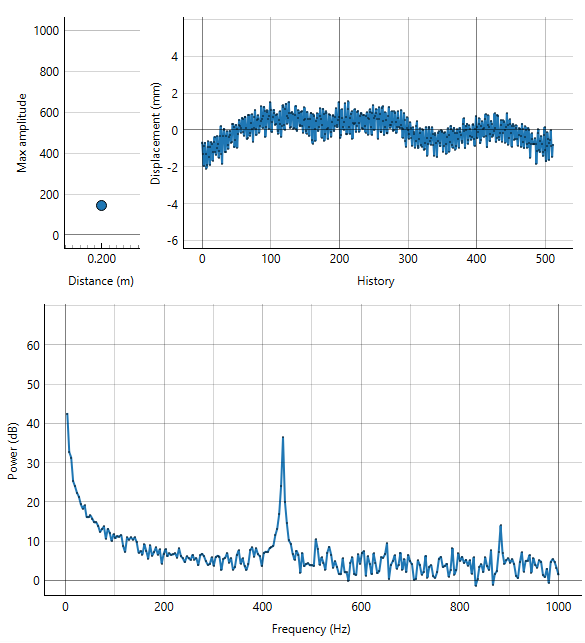
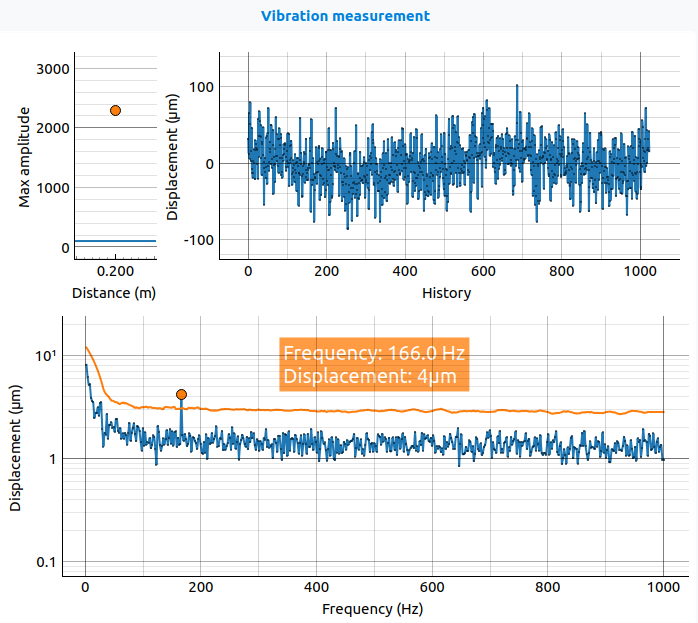
A121: Vibration: Update documentation

Changed region(s): [[0.0, 0.5185, 0.9846, 1.0], [0.0308, 0.0, 0.9846, 0.488], [0.0615, 0.0305, 0.1231, 0.061]]

diff --git a/src/acconeer/exptool/a121/algo/vibration/_processor.py b/src/acconeer/exptool/a121/algo/vibration/_processor.py
@@ -43,13 +43,15 @@ class ReportedDisplacement(AlgoParamEnum):
 @attrs.mutable(kw_only=True)
 class ProcessorConfig(AlgoProcessorConfigBase):
     time_series_length: int = attrs.field(default=1024)
-    """Length of time series."""
+    """Length of time series.
+    This value will be overridden by the number of sweeps per frame if continuous sweep mode is not enabled."""
 
     lp_coeff: float = attrs.field(default=0.95)
-    """Specify filter coefficient of exponential filter."""
+    """Specify filter coefficient of the exponential filter for the FFT.
+    A higher value means more filtering, i.e., slower response to changes."""
 
     threshold_margin: float = attrs.field(default=10.0)
-    """Specify threshold margin (micro meter)."""
+    """Specify threshold margin (micrometer)."""
 
     amplitude_threshold: float = attrs.field(default=100.0)
     """Specify minimum amplitude for calculating vibration."""
@@ -175,7 +177,7 @@ class ProcessorExtraResult:
     lp_displacements_threshold: Optional[npt.NDArray[np.float_]] = attrs.field(
         default=None, eq=attrs_optional_ndarray_isclose
     )
-    """Threshold used for detecting significant frequencies."""
+    """CFAR threshold used for detecting significant frequencies in the FFT."""
 
 
 @attrs.frozen(kw_only=True)
@@ -189,19 +191,19 @@ class ProcessorResult:
     lp_displacements: Optional[npt.NDArray[np.float_]] = attrs.field(
         default=None, eq=attrs_optional_ndarray_isclose
     )
-    """Array of estimated displacement (um) per frequency."""
+    """Array of estimated displacement (μm) per frequency."""
 
     lp_displacements_freqs: npt.NDArray[np.float_] = attrs.field(eq=attrs_ndarray_isclose)
     """Array of frequencies where displacement is estimated (Hz)."""
 
     max_displacement: Optional[float] = attrs.field(default=None)
-    """Largest detected displacement (um)."""
+    """Largest detected displacement (μm)."""
 
     max_displacement_freq: Optional[float] = attrs.field(default=None)
     """Frequency of largest detected displacement (Hz)."""
 
     time_series_std: Optional[float] = attrs.field(default=None)
-    """Time series std(standard deviation)."""
+    """Time series standard deviation."""
 
     extra_result: ProcessorExtraResult
     """Extra result, used for plotting only."""

diff --git a/src/acconeer/exptool/a121/algo/vibration/_example_app.py b/src/acconeer/exptool/a121/algo/vibration/_example_app.py
@@ -47,13 +47,15 @@ class ExampleAppConfig(AlgoConfigBase):
     """Measured point."""
 
     time_series_length: int = attrs.field(default=1024)
-    """Number of sweeps in the time series."""
+    """Length of time series.
+    This value will be overridden by the number of sweeps per frame if continuous sweep mode is not enabled."""
 
     lp_coeff: float = attrs.field(default=0.95)
-    """Specify filter coefficient of exponential filter."""
+    """Specify filter coefficient of the exponential filter for the FFT.
+    A higher value means more filtering, i.e., slower response to changes."""
 
     threshold_margin: float = attrs.field(default=10.0)
-    """Specify threshold margin (micro meter)."""
+    """Specify threshold margin (micrometer)."""
 
     amplitude_threshold: float = attrs.field(default=100.0)
     """Specify minimum amplitude for calculating vibration."""
@@ -142,19 +144,19 @@ class ExampleAppResult:
     lp_displacements: Optional[npt.NDArray[np.float_]] = attrs.field(
         default=None, eq=attrs_optional_ndarray_isclose
     )
-    """Array of estimated displacement (um) per frequency."""
+    """Array of estimated displacement (μm) per frequency."""
 
     lp_displacements_freqs: npt.NDArray[np.float_] = attrs.field(eq=attrs_ndarray_isclose)
     """Array of frequencies where displacement is estimated (Hz)."""
 
     max_displacement: Optional[float] = attrs.field(default=None)
-    """Largest detected displacement (um)."""
+    """Largest detected displacement (μm)."""
 
     max_displacement_freq: Optional[float] = attrs.field(default=None)
     """Frequency of largest detected displacement (Hz)."""
 
     time_series_std: Optional[float] = attrs.field(default=None)
-    """Time series std(standard deviation)."""
+    """Time series standard deviation."""
 
     processor_extra_result: ProcessorExtraResult = attrs.field()
     """Processor extra result, used for plotting only."""

diff --git a/docs/example_apps/a121/vibration.rst b/docs/example_apps/a121/vibration.rst
@@ -1,43 +1,143 @@
-Vibration measurement
+Vibration Measurement
 =====================
 
-This vibration measurement application illustrates how the a121 sensor can be used to estimate the
+This example application illustrates how the A121 sensor can be used to estimate the
 frequency content of a vibrating object, measured at a distance.
 
 The Sparse IQ service produces complex data samples where the amplitude reflects the amount of
 returning energy and the phase the relative timing between the transmitted and received pulse.
 The phase can be used to detect small displacements.
 The vibration measurement application takes advantage of this, by forming a time series of the
-measured phase in a single distance point, which is then analyzed using an FFT.
+measured phase at a single distance point, which is then analyzed using an FFT.
 See :ref:`interpreting_radar_data` for more information about the produced data.
 
-The length of the time series is determine by the processor configuration parameter
-:attr:`~acconeer.exptool.a121.algo.vibration._processor.ProcessorConfig.time_series_length`.
-A longer time series will give more points in the resulting spectrum. The frequency resolution
-is given by the ratio of the sweep rate and the number of points in the time series.
+Usage
+-----
+This section describes how to get started with the Vibration Example Application, how to configure it and important concepts.
 
-The frequency resolution of the spectrum is determine by the sweep rate(the time between
-consecutive sweeps). The sweep rate can be changed through the GUI, or be specified in the sensor
-configuration if running the application from a script.
+Your first measurement
+^^^^^^^^^^^^^^^^^^^^^^
+To make a first measurement, it is recommended to connect one of Acconeer's evaluation kits to the Exploration Tool.
+Choose Vibration Measurement in the GUI.
+Place the sensor facing the object in the vibrating direction.
+Set the distance from the sensor to the object by adjusting the parameter
+:attr:`~acconeer.exptool.a121.algo.vibration._example_app.ExampleAppConfig.measured_point` and then press start measurement.
 
-The processor configuration also has a time constant,
-:attr:`~acconeer.exptool.a121.algo.vibration._processor.ProcessorConfig.lp_coeff`,
-applied together with an exponential filter, providing the possibility to time filter the
-calculated spectrum.
 
-The GUI, shown below, has three plots. The upper left indicates the amplitude at the
+Exploration Tool
+^^^^^^^^^^^^^^^^
+
+The GUI, see figure below, has three plots. The upper left plot indicates the amplitude at the
 measured point. The purpose of this is to provide visual feedback on whether or not the
-object is located at the right distance from the sensor. With no object in front of the sensor,
-the value should be close to zero. When moving an object into the correct location, the value
-increases. Next, the upper right plot shows the displacement of the measured object. Here
-the phase has been converted to mm, indicating the physical displacement of the object. Lastly,
-the lower plot shows the calculated spectrum. In this case, the vibrating object has a dominant
-frequency at 440 Hz with a possible harmonic at 880 Hz.
+object is located at the right distance from the sensor. The blue horizontal line shows the chosen amplitude threshold.
+With no object in front of the sensor, the value should be close to zero.
+When moving an object into the correct location, the value increases.
+Next, the upper right plot shows the displacement of the measured object.
+Here, the phase has been converted to :math:`\mu m`, indicating the physical displacement of the object.
+Lastly, the lower plot shows the calculated spectrum. In this case, the vibrating object has a dominant frequency at 166 Hz.
+The orange line shows the CFAR threshold, and the orange dot shows the peak value.
+Note that the upper right plot and bottom plot only are updated when the object's amplitude
+is above the amplitude threshold.
 
 .. image:: /_static/processing/a121_vibration_gui.png
     :align: center
 
-Configuration parameters
-------------------------
-.. autoclass:: acconeer.exptool.a121.algo.vibration._processor.ProcessorConfig
+Presets
+^^^^^^^
+In the Vibration Example App there are two presets that can help as a starting point depending on the desired frequency span that is of interest:
+
+High frequency
+    This preset will detect vibrations with frequencies up to 5000 Hz. The measurement distance is 0.2 m.
+Low frequency
+    For this preset, low frequency enhancement is enabled, see :ref:`low-freq_enhancement`.
+    Vibrations with frequencies up to 100 Hz will be detected at a distance of 0.2 m.
+
+
+Time Series
+^^^^^^^^^^^
+If continuous sweep mode is enabled, set by :attr:`~acconeer.exptool.a121.algo.vibration._example_app.ExampleAppConfig.continuous_sweep_mode`,
+the length of the time series is determined by the parameter
+:attr:`~acconeer.exptool.a121.algo.vibration._example_app.ExampleAppConfig.time_series_length`.
+A longer time series will give more points in the resulting spectrum. The frequency resolution
+is given by the ratio of the sweep rate and the number of points in the time series.
+If continuous sweep mode is not enabled, the time between two consecutive sweeps and two consecutive frames will not be the same.
+Due to this, the FFT will be calculated on a per frame basis, meaning that the time series length will be equal to the number of sweeps per frame,
+:attr:`~acconeer.exptool.a121.algo.vibration._example_app.ExampleAppConfig.sweeps_per_frame`,
+and :attr:`~acconeer.exptool.a121.algo.vibration._example_app.ExampleAppConfig.time_series_length` parameter
+will be redundant.
+The sweep rate, :attr:`~acconeer.exptool.a121.algo.vibration._example_app.ExampleAppConfig.sweep_rate`,
+should be set high enough to be able to capture the highest frequency of interest.
+The Nyquist theorem states that the sampling rate must be at least twice the highest frequency that is of interest.
+
+The example app configuration also has a time constant,
+:attr:`~acconeer.exptool.a121.algo.vibration._example_app.ExampleAppConfig.lp_coeff`,
+applied together with an exponential filter, providing the possibility to time filter the
+calculated spectrum. A higher time constant gives a more stable spectrum.
+However, the spectrum will also adapt slower to changes in the frequency content.
+
+For every frequency in the spectrum, the power is converted to a displacement.
+The displacements can be computed in two different ways, either as amplitude or peak to peak value.
+This is set by the :attr:`~acconeer.exptool.a121.algo.vibration._example_app.ExampleAppConfig.reported_displacement_mode`
+parameter.
+
+Thresholds
+^^^^^^^^^^
+There are two threshold parameters,
+:attr:`~acconeer.exptool.a121.algo.vibration._example_app.ExampleAppConfig.amplitude_threshold`,
+and :attr:`~acconeer.exptool.a121.algo.vibration._example_app.ExampleAppConfig.threshold_margin`, which are used together.
+The first one determines if an object is in front of the sensor and if the
+algorithm should run, while the second one is used to find peaks in the frequency spectrum.
+The algorithm only calculates the FFT if there is an object in front of the sensor and
+the amplitude threshold,
+:attr:`~acconeer.exptool.a121.algo.vibration._example_app.ExampleAppConfig.amplitude_threshold`,
+sets the needed amplitude for an object to be considered detected.
+When an object is detected, the FFT is calculated and a CFAR threshold is computed to determine peaks in the spectrum,
+and the overall sensitivity of the CFAR threshold is adjusted by the threshold margin,
+:attr:`~acconeer.exptool.a121.algo.vibration._example_app.ExampleAppConfig.threshold_margin`.
+
+.. _low-freq_enhancement:
+
+Low Frequency Enhancement
+^^^^^^^^^^^^^^^^^^^^^^^^^
+Low frequencies, down to about 1 Hz, can sometimes be difficult to detect in the spectrum due to an increased noise floor.
+To correct the noise floor, a subsweep with a loopback measurement (see :ref:`api_a121_configs` for more information) can be added.
+The loopback measurement is used to adjust the phase for each sweep to compensate for jitter in the measurement.
+This will create a flat noise floor in the FFT, see figure below.
+This feature can be enabled with the parameter
+:attr:`~acconeer.exptool.a121.algo.vibration._example_app.ExampleAppConfig.low_frequency_enhancement`.
+Since a subsweep is added, the number of samples is increased and thus, the sweep rate cannot be as high as without this feature.
+Due to this, it is only recommended to enable this feature if there is an interest in detecting very low frequencies.
+
+.. image:: /_static/processing/a121_vibration_flat_fft.png
+    :align: center
+
+Example App Output
+^^^^^^^^^^^^^^^^^^
+The :attr:`~acconeer.exptool.a121.algo.vibration._example_app.ExampleAppResult` class contains all output result from this example application.
+For the decision if an object is present in front of the sensor or not, the maximal amplitude is used, and this is reported in the
+:attr:`~acconeer.exptool.a121.algo.vibration._example_app.ExampleAppConfig.max_sweep_amplitude`.
+As well as reporting the largest detected displacement,
+:attr:`~acconeer.exptool.a121.algo.vibration._example_app.ExampleAppConfig.max_displacement`,
+and for which frequency this is found,
+:attr:`~acconeer.exptool.a121.algo.vibration._example_app.ExampleAppConfig.max_displacement_freq`,
+all displacement together with all the frequencies they are calculated for is reported in the
+:attr:`~acconeer.exptool.a121.algo.vibration._example_app.ExampleAppConfig.lp_displacements`
+and the
+:attr:`~acconeer.exptool.a121.algo.vibration._example_app.ExampleAppConfig.lp_displacements_freqs`.
+However, usually it is the maximal displacement and the corresponding frequency that is of highest interest.
+The last reported result is the
+:attr:`~acconeer.exptool.a121.algo.vibration._example_app.ExampleAppConfig.time_series_std`,
+which is the standard deviation of the last processed time series.
+
+Exploration Tool Python API
+---------------------------
+
+Configuration Parameters
+^^^^^^^^^^^^^^^^^^^^^^^^
+.. autoclass:: acconeer.exptool.a121.algo.vibration._example_app.ExampleAppConfig
+   :members:
+
+Example App Result
+^^^^^^^^^^^^^^^^^^
+.. autoclass:: acconeer.exptool.a121.algo.vibration._example_app.ExampleAppResult
    :members:
